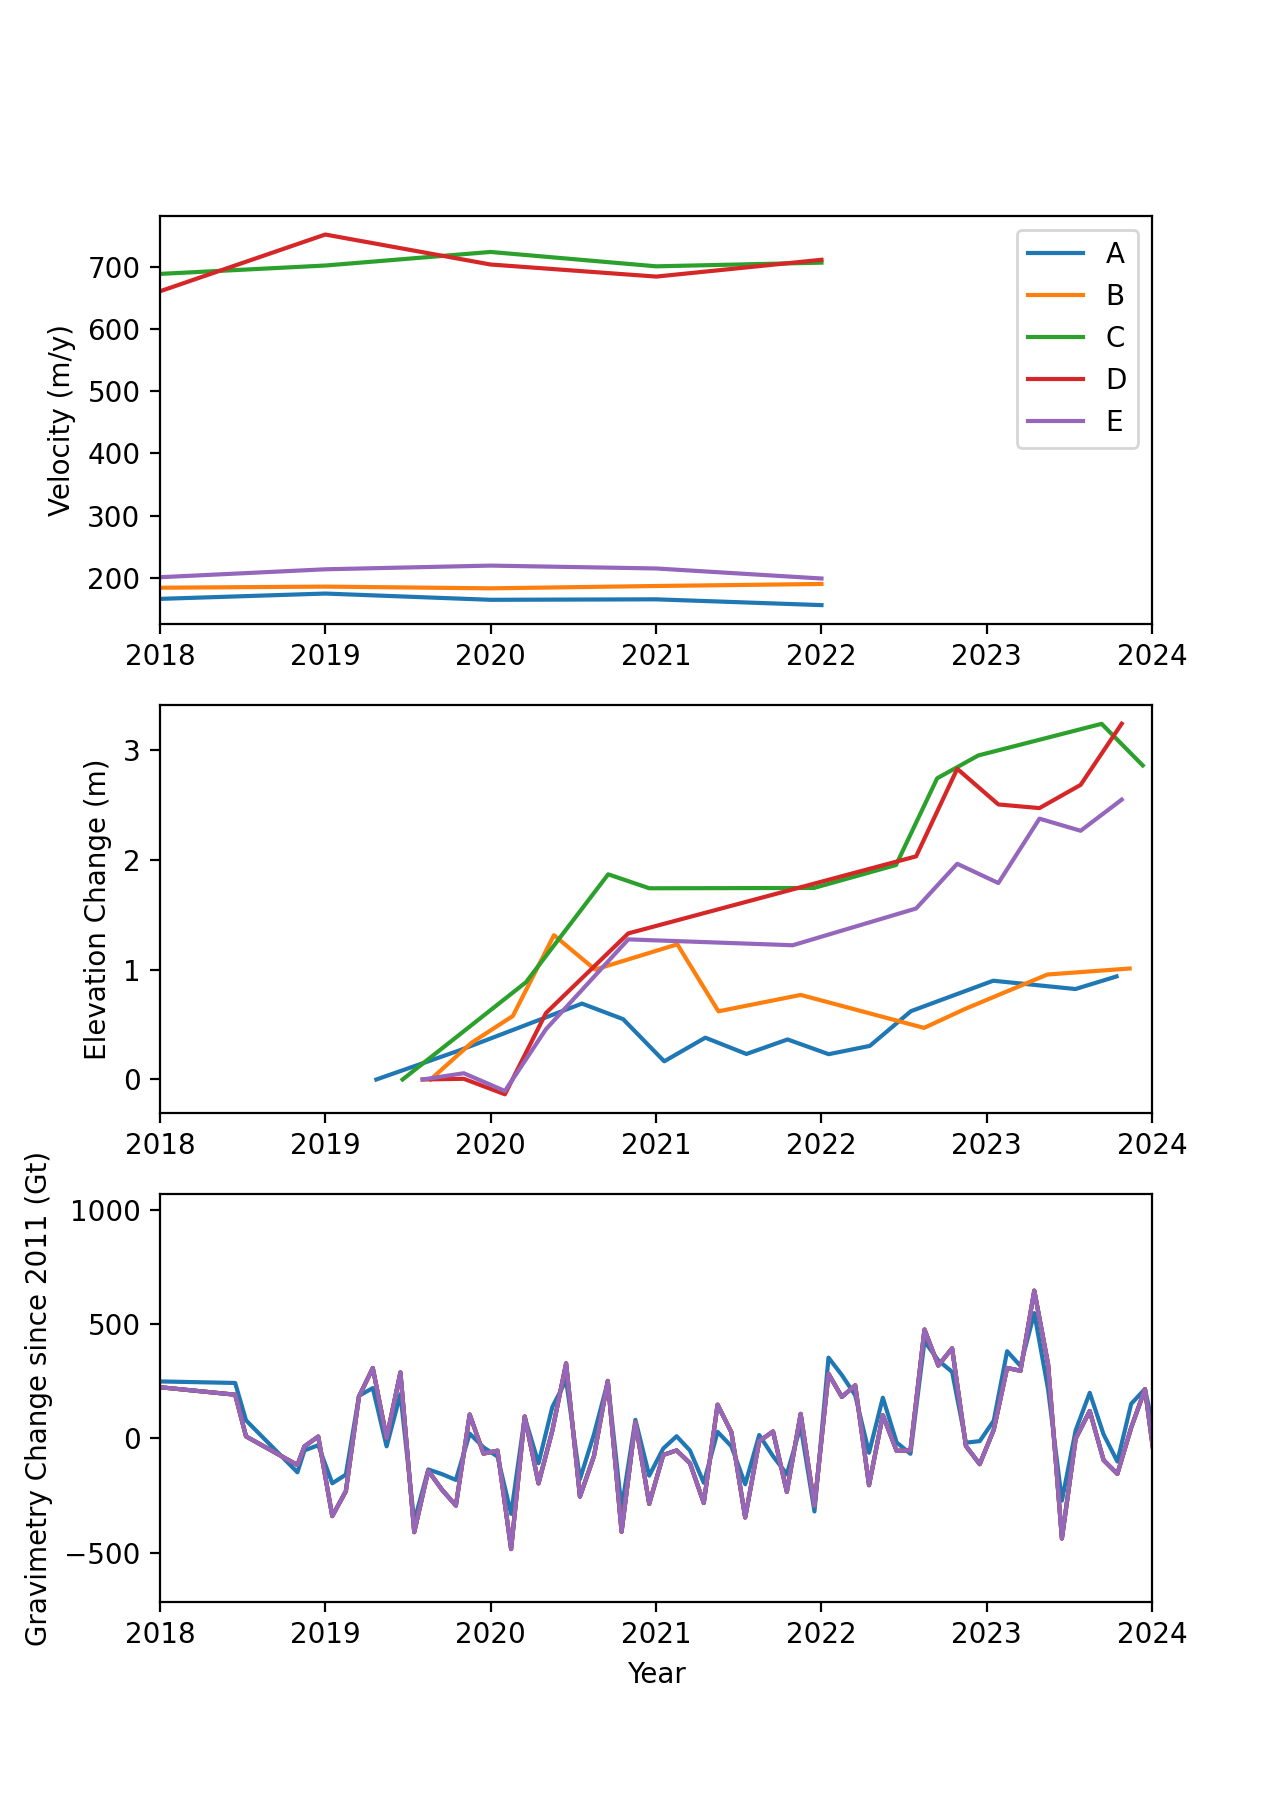
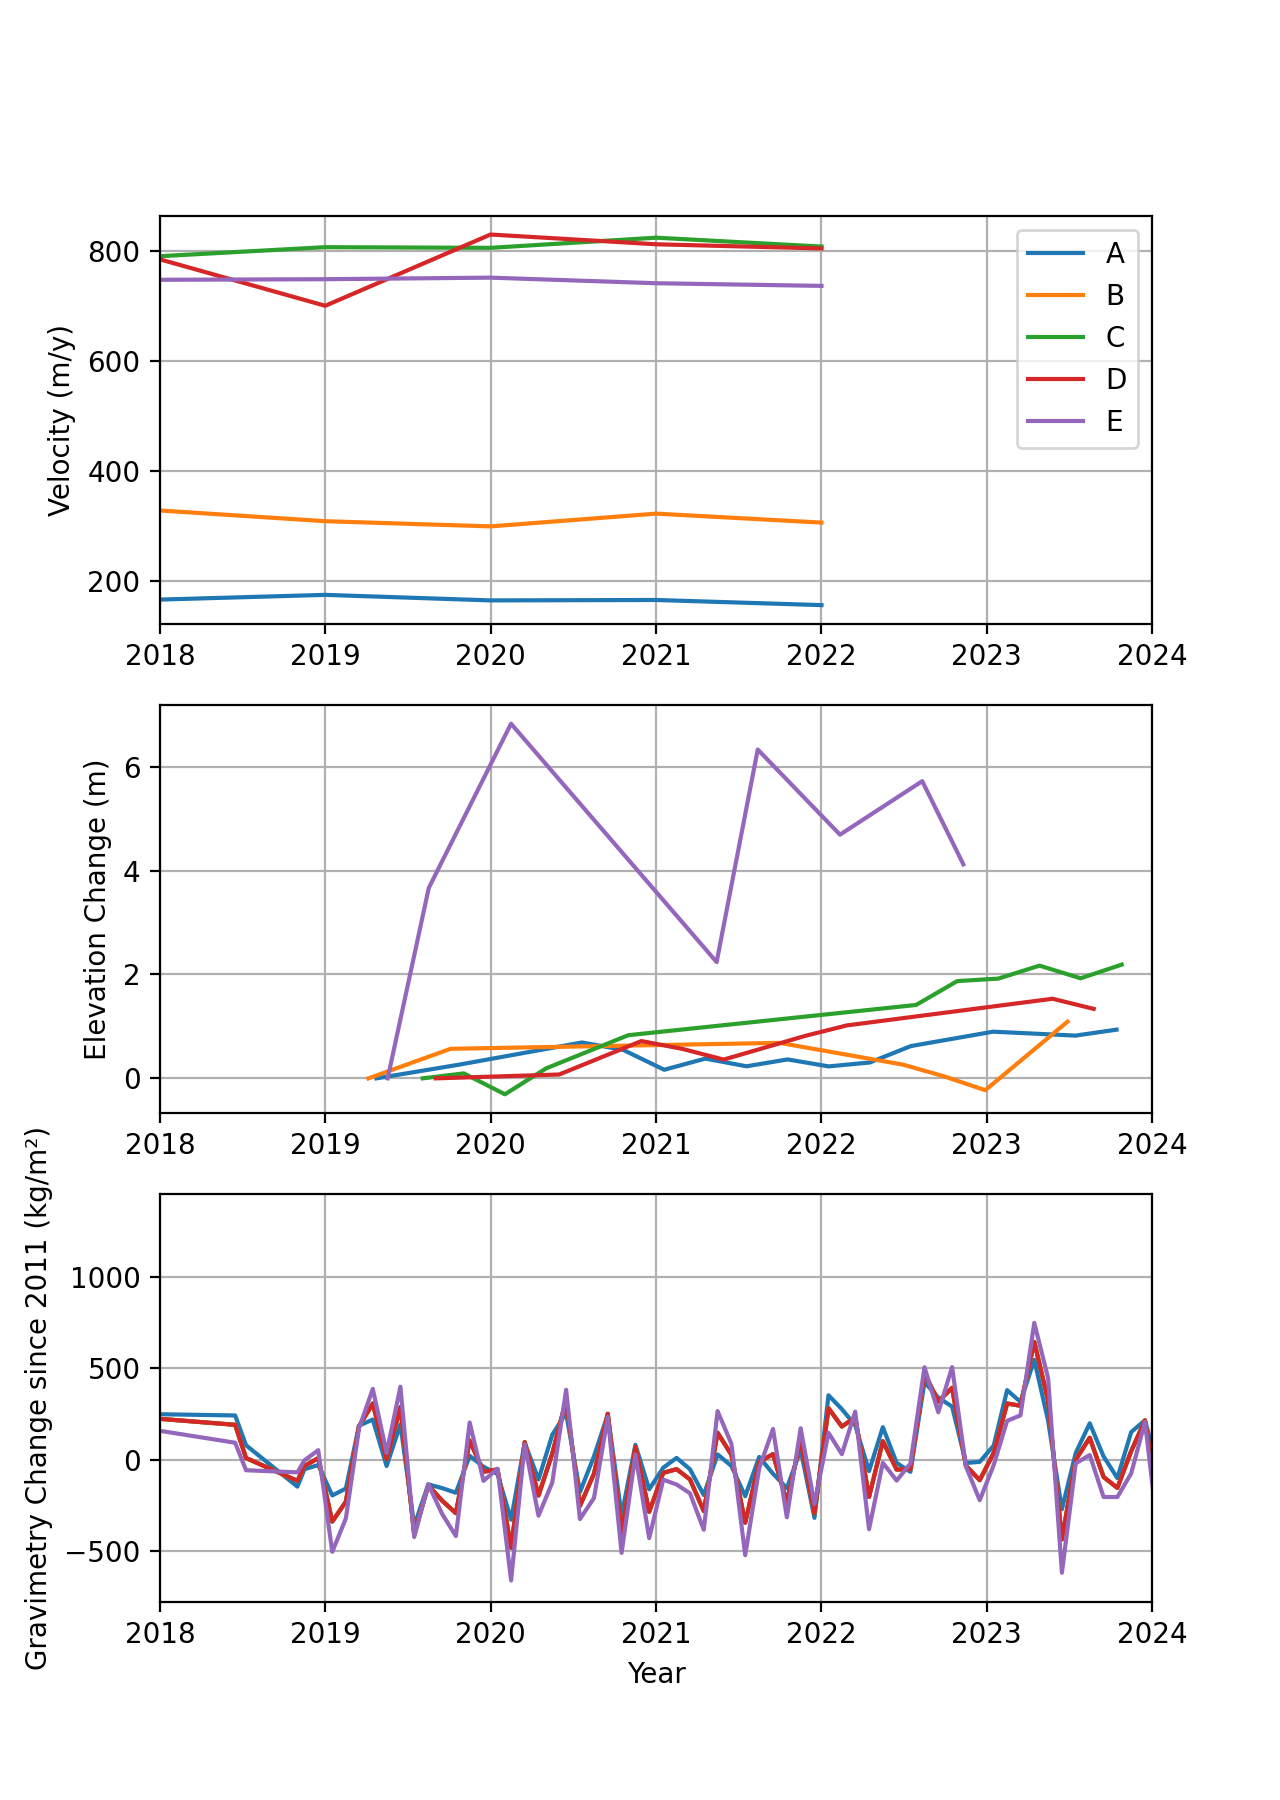
spacial reference for point chart done

diff --git a/src/pointwise.py b/src/pointwise.py
@@ -9,6 +9,8 @@ from shapely.geometry import Point
 import pandas as pd
 import numpy as np
 
+from plotting import Plotting
+
 class Pointwize():
     def __init__(self, yearStart, yearEnd, xlim, ylim, points, data, change=True):
         self.yearStart = int(yearStart)
@@ -33,7 +35,20 @@ class Pointwize():
         df_ref = pd.DataFrame({'geometry':point_geom})
         df_ref = gpd.GeoDataFrame(df_ref, geometry=point_geom, crs='EPSG:3031')
         return df_ref
+    
+    def get_label(self, index):
+        return str(chr(index + 65))
 
+
+    def save_point_df(self):
+        p = Plotting()
+        df = self.create_point_df()
+        labels = []
+        for x in range(len(self.points)):
+            labels.append(self.get_label(x))
+        df['labels'] = labels
+        p.plot_df_on_borders(df)
+        #df.to_file('points.gpkg', driver='GPKG')
 
     def gpd_geom_match(self, out, index, column_of_interest = 'elevation'):
         p = self.points[index]
@@ -59,13 +74,16 @@ class Pointwize():
         df = out.sel(x=p[1], y=p[0], method='nearest')
         print(df)
 
+
         if 'time' not in df.variables and 'year' in df.variables:
             t = df['year'].values
             new_dates = []
             for x in range(len(t)):
                 print(t[x])
                 new_dates.append(datetime.datetime(t[x], 1, 1))
+            time_dim = 'year'
         else:
+            time_dim = 'time'
             if df['time'].dtype != np.datetime64:
                 new_dates = []
                 t = df['time'].values
@@ -74,7 +92,14 @@ class Pointwize():
             else:
                 new_dates = df['time'].values
 
-
+        df[time_dim] = new_dates
+        '''if self.change:
+            ref_time = df[time_dim].min()
+            data = df.copy(deep=True)
+            print(df)
+            print(df[column_of_interest][df[time_dim] == ref_time])
+            df[column_of_interest] = df[column_of_interest] - data[column_of_interest][data[time_dim] == ref_time]'''
+        
         self.results[index] = pd.DataFrame({'time': new_dates,
                                             self.data: df[column_of_interest]})
 
@@ -85,7 +110,7 @@ class Pointwize():
         
         for p in self.results.keys():
             print(self.results[p]['time'], self.results[p][self.data].values)
-            ax.plot(self.results[p]['time'], self.results[p][self.data].values, label = str(chr(p + 65)))
+            ax.plot(self.results[p]['time'], self.results[p][self.data].values, label = self.get_label(p))
 
 
     def get_data(self):

diff --git a/src/plotting.py b/src/plotting.py
@@ -221,7 +221,7 @@ class Plotting:
             extent = self.extent
         fig, ax = plt.subplots()
         
-        self.plot_geotiff("shapefiles/qantarctica_velocities.tif", fig, ax, alpha=1, color="RdYlBu")
+        self.plot_geotiff("shapefiles/qantarctica_velocities.tif", fig, ax, alpha=1, cmap="RdYlBu")
         self.plot_glacier_borders(fig, ax, grounding_color=grounding_color, glacial_color=glacial_color)
         if extent:
             plt.xlim(extent[0], extent[1])
@@ -232,6 +232,51 @@ class Plotting:
         print("velocity_reading.png")
         
         plt.close('all')
+
+
+    def plot_df_on_borders(self, df, grounding_color='red', glacial_color='slategrey', extent=None):
+        if extent == None:
+            extent = self.extent
+        fig, ax = plt.subplots()
+        
+        self.plot_geotiff("shapefiles/qantarctica_velocities.tif", fig, ax, alpha=1, cmap="RdYlBu", label='Velocity from QAntarctica (m/y)')
+        self.plot_glacier_borders(fig, ax, grounding_color=grounding_color, glacial_color=glacial_color)
+
+        print(df)
+        if 'geometry' in df.columns:
+            xs = []
+            ys = []
+            for p in df['geometry']:
+                print(p)
+                xs.append(p.x)
+                ys.append(p.y)
+            df['x'] = xs
+            df['y'] = ys
+
+        if 'labels' in df.columns:
+
+            print(df)
+
+            if 'x' in df.columns:
+                for l in df['labels'].unique():
+                    cur = df[df['labels'] == l]
+                    print(cur)
+                    plt.scatter(cur['x'], cur['y'], label=l)
+        else:
+            plt.scatter(df['x'], df['y'])
+
+
+        plt.legend()
+        if extent:
+            plt.xlim(extent[0], extent[1])
+            plt.ylim(extent[2],  extent[3])
+        
+        print("Saving image...")
+        plt.savefig("point_locations.png", dpi=200)
+        print("point_locations.png")
+        
+        plt.close('all')
+
 
 
     def plot_only_vel_trend_geotiff(self, grounding_color='black', glacial_color='slategrey', extent=None, cmap="RdYlGn"):

diff --git a/src/main.py b/src/main.py
@@ -188,32 +188,40 @@ class main():
 
     def get_elevation_error(self):
         for year in range(self.flags.YEARSTART, self.flags.YEAREND):
-            #try:
+            
             strips = os.listdir(REMA_RAW_LOCATION + str(year)) 
             for s in strips:
                 if s.split('.')[-1] == 'tif':
                     ee = ElevationError(str(year) + '/' + s, output_name=s.split('/')[-1].split('.')[0]) #'2022/SETSM_s2s041_WV01_20220109_10200100BD005100_10200100BD3E7600_2m_lsf_seg1_dem_2022-01-09T00:00:00Z.tif')
                     print('getting error')
                     print(ee.get_error())
-            #except:
-            #    print("No data " + str(year))
 
     
 
     def get_points_timeline(self, data = ['vel', 'elev', 'grav']):
+        p = Pointwize(self.flags.YEARSTART, self.flags.YEAREND, self.xlim, self.ylim, 
+                        self.point_name, data = 'vel', change=True)
+        
+        p.save_point_df()
+        plt.close('all')
+
+        
         labels = {
             'vel': "Velocity (m/y)",
             'elev': 'Elevation Change (m)',
-            'grav': 'Gravimetry Change since 2011 (Gt)'
+            'grav': 'Gravimetry Change since 2011 (kg/m²)'
         }
+
         fig, ax = plt.subplots(len(data), 1)
         fig.set_figheight(3*len(data))
+
 
         for i, d in enumerate(data):
             p = Pointwize(self.flags.YEARSTART, self.flags.YEAREND, self.xlim, self.ylim, 
                         self.point_name, data = d, change=True)
             p.plot_time_series(fig, ax[i])
             ax[i].set_ylabel(labels[d])
+            ax[i].grid()
 
             ax[i].set_xlim((datetime.datetime(self.flags.YEARSTART, 1, 1), datetime.datetime(self.flags.YEAREND, 1, 1)))
 

diff --git a/src/utils.py b/src/utils.py
@@ -24,10 +24,10 @@ POINT_LISTS = {
 
     'Dibble' : [
         [-1753719.5,1833511.6],
-        [-1776239.8,1844142.8],
-        [-1797670.65,1853021.49],
-        [-1807632.8,1853170.8],
-        [-1811218.2,1864875.7]
+        [-1782934,1847702],
+        [-1804995,1854973],
+        [-1816849,1855918],
+        [-1837102,1857847]
         
     ],
 
